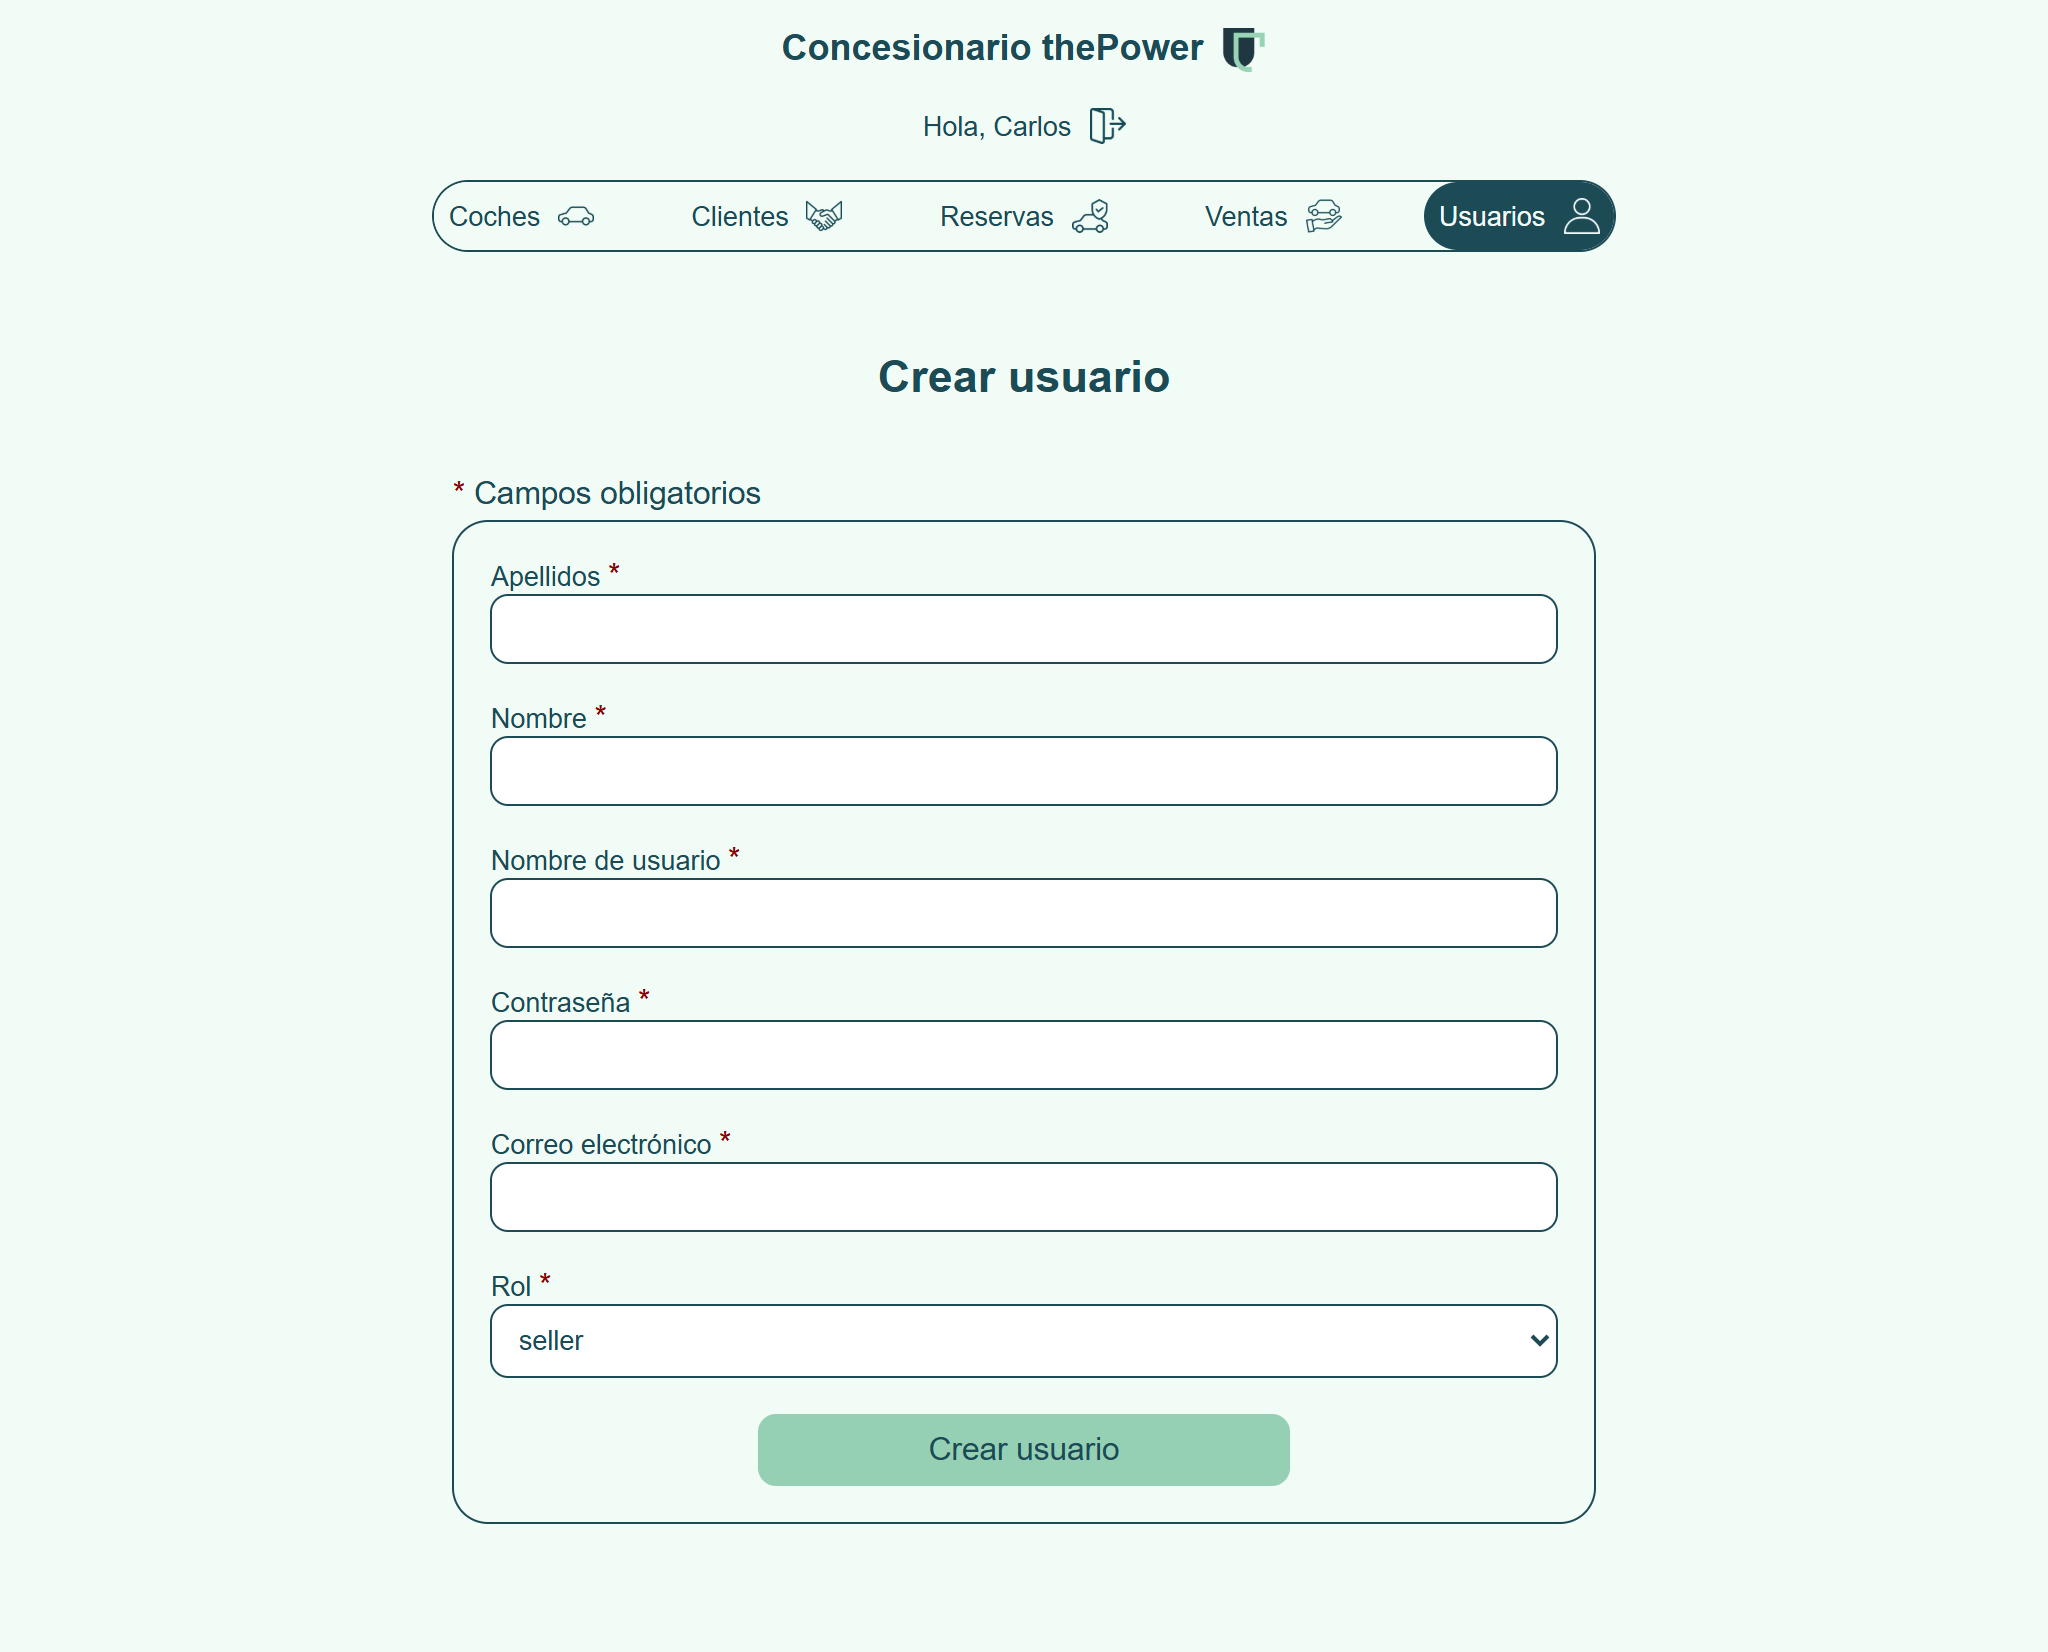
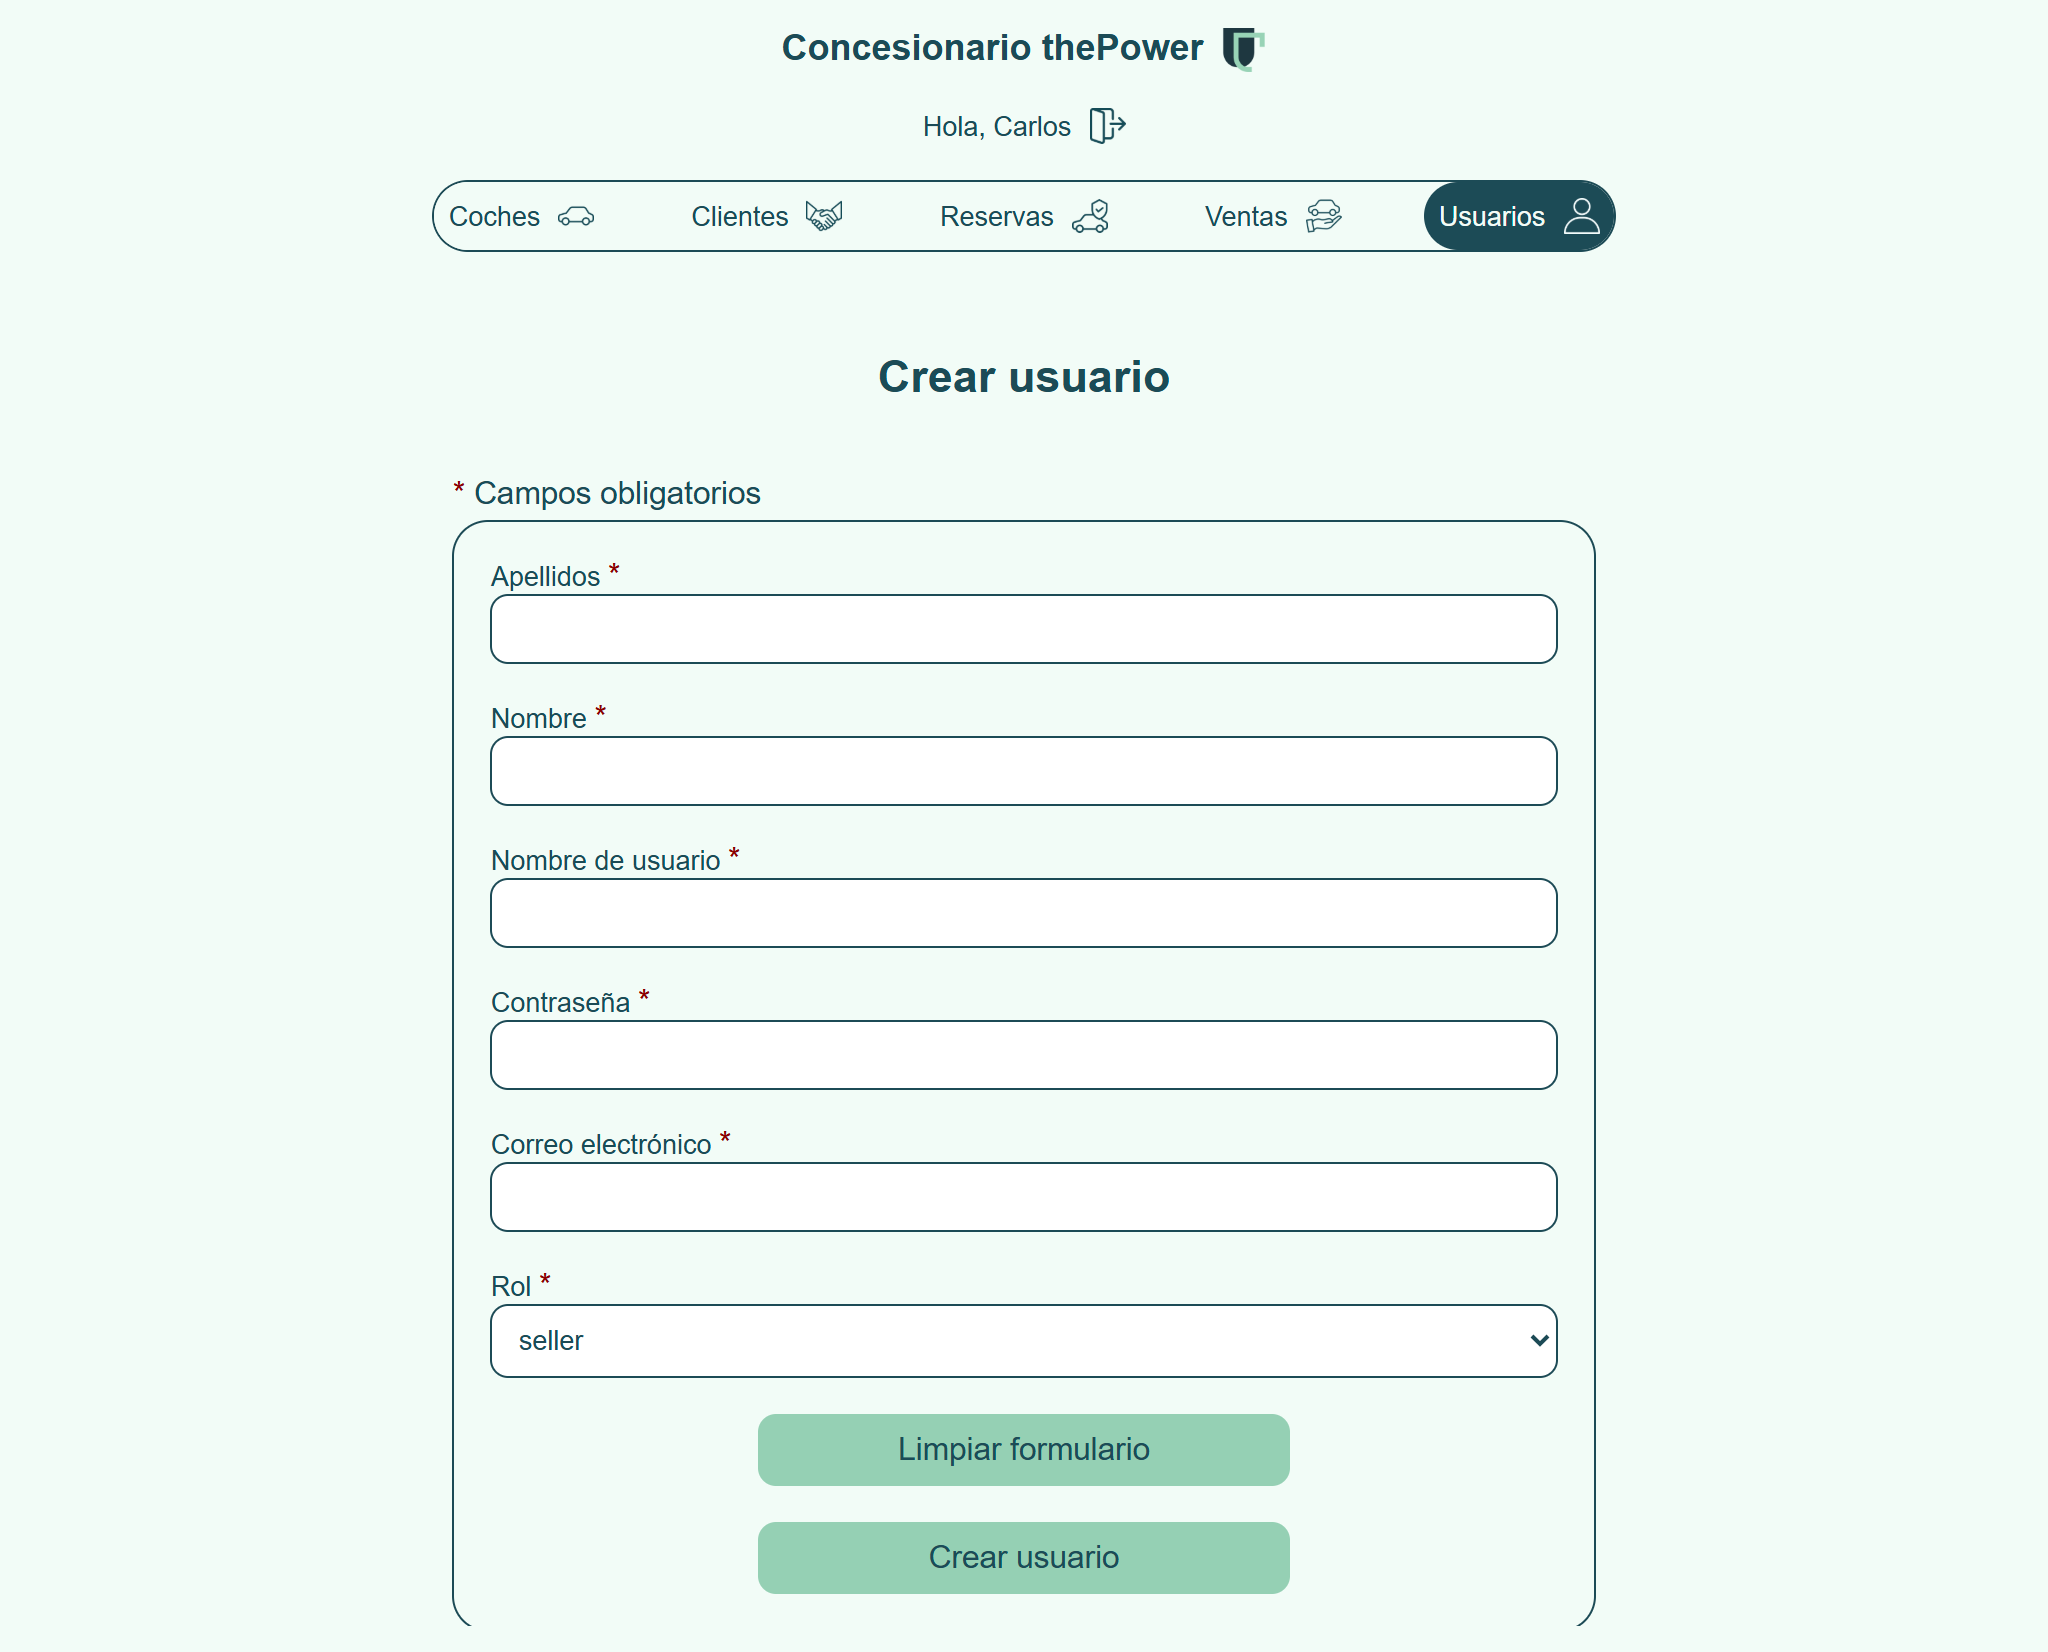
Se añade un botón "reset" para los formularios de creación de coches, clientes y usuarios

Changed region(s): [[0.3438, 0.8644, 0.6562, 0.9879]]

diff --git a/Frontend/src/components/Form/ResetButton.jsx b/Frontend/src/components/Form/ResetButton.jsx
@@ -1,0 +1,10 @@
+import strings from '../../utils/strings'
+
+// Componente que devuelve un botón que limpia los datos de un formulario
+const ResetButton = ({ reset }) => (
+  <button type={strings.INPUT_FIELD_TYPES.button} onClick={() => reset()}>
+    {strings.COMMON_ACTIONS.reset.label}
+  </button>
+)
+
+export default ResetButton

diff --git a/Frontend/src/pages/cars/CreateCar.jsx b/Frontend/src/pages/cars/CreateCar.jsx
@@ -15,7 +15,7 @@ const DEFAULT_CREATE_CAR_FORM_VALUES = {
 
 // Componente que permite crear un coche nuevo
 const CreateCar = () => {
-  const { register, control, watch, handleSubmit } = useForm({
+  const { register, control, watch, reset, handleSubmit } = useForm({
     defaultValues: DEFAULT_CREATE_CAR_FORM_VALUES,
     shouldUnregister: true
   })
@@ -30,7 +30,12 @@ const CreateCar = () => {
       <section className='form'>
         <RequiredNote />
         <form onSubmit={handleSubmit(submit)}>
-          <CarForm register={register} control={control} watch={watch} />
+          <CarForm
+            register={register}
+            control={control}
+            watch={watch}
+            reset={reset}
+          />
         </form>
       </section>
     </>

diff --git a/Frontend/src/components/Car/CarForm.jsx b/Frontend/src/components/Car/CarForm.jsx
@@ -1,12 +1,13 @@
 import DateField from '../Form/DateField'
 import FileField from '../Form/FileField'
 import NumberField from '../Form/NumberField'
+import ResetButton from '../Form/ResetButton'
 import SelectField from '../Form/SelectField'
 import TextField from '../Form/TextField'
 import strings from '../../utils/strings'
 
 // Componente que devuelve los campos para la creación o actualización de un coche
-const CarForm = ({ register, control, watch, car }) => {
+const CarForm = ({ register, control, watch, reset, car }) => {
   const [make, img, condition] = watch([
     strings.CAR_FIELDS.make.id,
     strings.CAR_FIELDS.img.id,
@@ -123,6 +124,8 @@ const CarForm = ({ register, control, watch, car }) => {
           />
         </div>
       )}
+
+      {reset != null && <ResetButton reset={reset} />}
 
       <button type={strings.INPUT_FIELD_TYPES.submit}>
         {car == null

diff --git a/Frontend/src/components/Customer/CustomerForm.jsx b/Frontend/src/components/Customer/CustomerForm.jsx
@@ -1,8 +1,9 @@
+import ResetButton from '../Form/ResetButton'
 import TextField from '../Form/TextField'
 import strings from '../../utils/strings'
 
 // Componente que devuelve los campos para la creación o actualización de un cliente
-const CustomerForm = ({ register, customer }) => (
+const CustomerForm = ({ register, reset, customer }) => (
   <>
     <div>
       <TextField
@@ -27,6 +28,8 @@ const CustomerForm = ({ register, customer }) => (
         register={register}
       />
     </div>
+
+    {reset != null && <ResetButton reset={reset} />}
 
     <button type={strings.INPUT_FIELD_TYPES.submit}>
       {customer == null

diff --git a/Frontend/src/components/User/UserForm.jsx b/Frontend/src/components/User/UserForm.jsx
@@ -1,12 +1,13 @@
 import { useContext } from 'react'
 import { AuthContext } from '../Auth/AuthProvider'
+import ResetButton from '../Form/ResetButton'
 import SelectField from '../Form/SelectField'
 import TextField from '../Form/TextField'
 import helpers from '../../utils/helpers'
 import strings from '../../utils/strings'
 
 // Componente que devuelve los campos para la creación o actualización de un usuario
-const UserForm = ({ register, action }) => {
+const UserForm = ({ register, reset, action }) => {
   const { user } = useContext(AuthContext)
 
   return (
@@ -74,6 +75,8 @@ const UserForm = ({ register, action }) => {
           )}
         </>
       )}
+
+      {reset != null && <ResetButton reset={reset} />}
 
       <button type={strings.INPUT_FIELD_TYPES.submit}>
         {action == null

diff --git a/Frontend/src/utils/strings.js b/Frontend/src/utils/strings.js
@@ -187,6 +187,10 @@ const USER_ACTIONS = {
   delete: { id: 'delete', label: 'Eliminar usuario' }
 }
 
+const COMMON_ACTIONS = {
+  reset: { id: 'reset', label: 'Limpiar formulario' }
+}
+
 const CAR_CONDITION_FILTER_OPTIONS = {
   allConditions: { id: 'allConditions', value: FILTER_ALL_OPTION },
   new: { id: 'new', value: CAR_CONDITIONS.new },
@@ -253,6 +257,7 @@ const strings = {
   SALE_ACTIONS,
   USER_FIELDS,
   USER_ACTIONS,
+  COMMON_ACTIONS,
   CAR_CONDITION_FILTER_OPTIONS,
   CAR_STATUS_FILTER_OPTIONS,
   RESERVATION_SALE_ORDER_OPTIONS,

diff --git a/Frontend/src/pages/customers/CreateCustomer.jsx b/Frontend/src/pages/customers/CreateCustomer.jsx
@@ -7,7 +7,7 @@ import strings from '../../utils/strings'
 
 // Componente que permite crear un cliente nuevo
 const CreateCustomer = () => {
-  const { register, handleSubmit } = useForm()
+  const { register, reset, handleSubmit } = useForm()
   const { fetchData } = useFetchWithDialog(customerFetch.createCustomer)
 
   const submit = (body) => fetchData(body)
@@ -19,7 +19,7 @@ const CreateCustomer = () => {
       <section className='form'>
         <RequiredNote />
         <form onSubmit={handleSubmit(submit)}>
-          <CustomerForm register={register} />
+          <CustomerForm register={register} reset={reset} />
         </form>
       </section>
     </>

diff --git a/Frontend/src/pages/users/CreateUser.jsx b/Frontend/src/pages/users/CreateUser.jsx
@@ -11,7 +11,7 @@ const DEFAULT_CREATE_USER_FORM_VALUES = {
 
 // Componente que permite crear un usuario nuevo
 const CreateUser = () => {
-  const { register, handleSubmit } = useForm({
+  const { register, reset, handleSubmit } = useForm({
     defaultValues: DEFAULT_CREATE_USER_FORM_VALUES
   })
   const { fetchData } = useFetchWithDialog(userFetch.createUser)
@@ -25,7 +25,7 @@ const CreateUser = () => {
       <section className='form'>
         <RequiredNote />
         <form onSubmit={handleSubmit(submit)}>
-          <UserForm register={register} />
+          <UserForm register={register} reset={reset} />
         </form>
       </section>
     </>